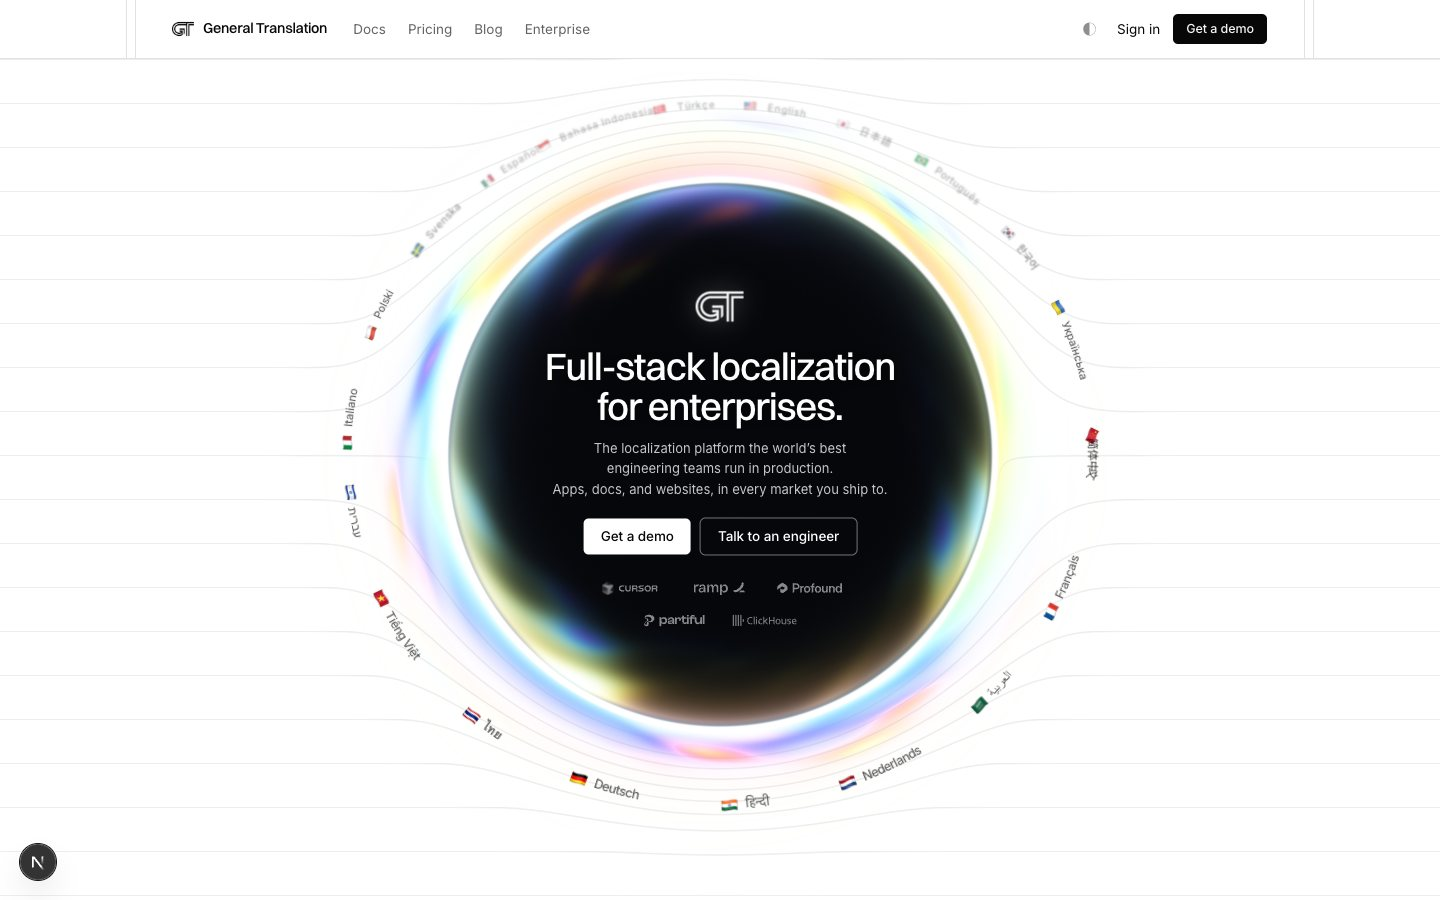
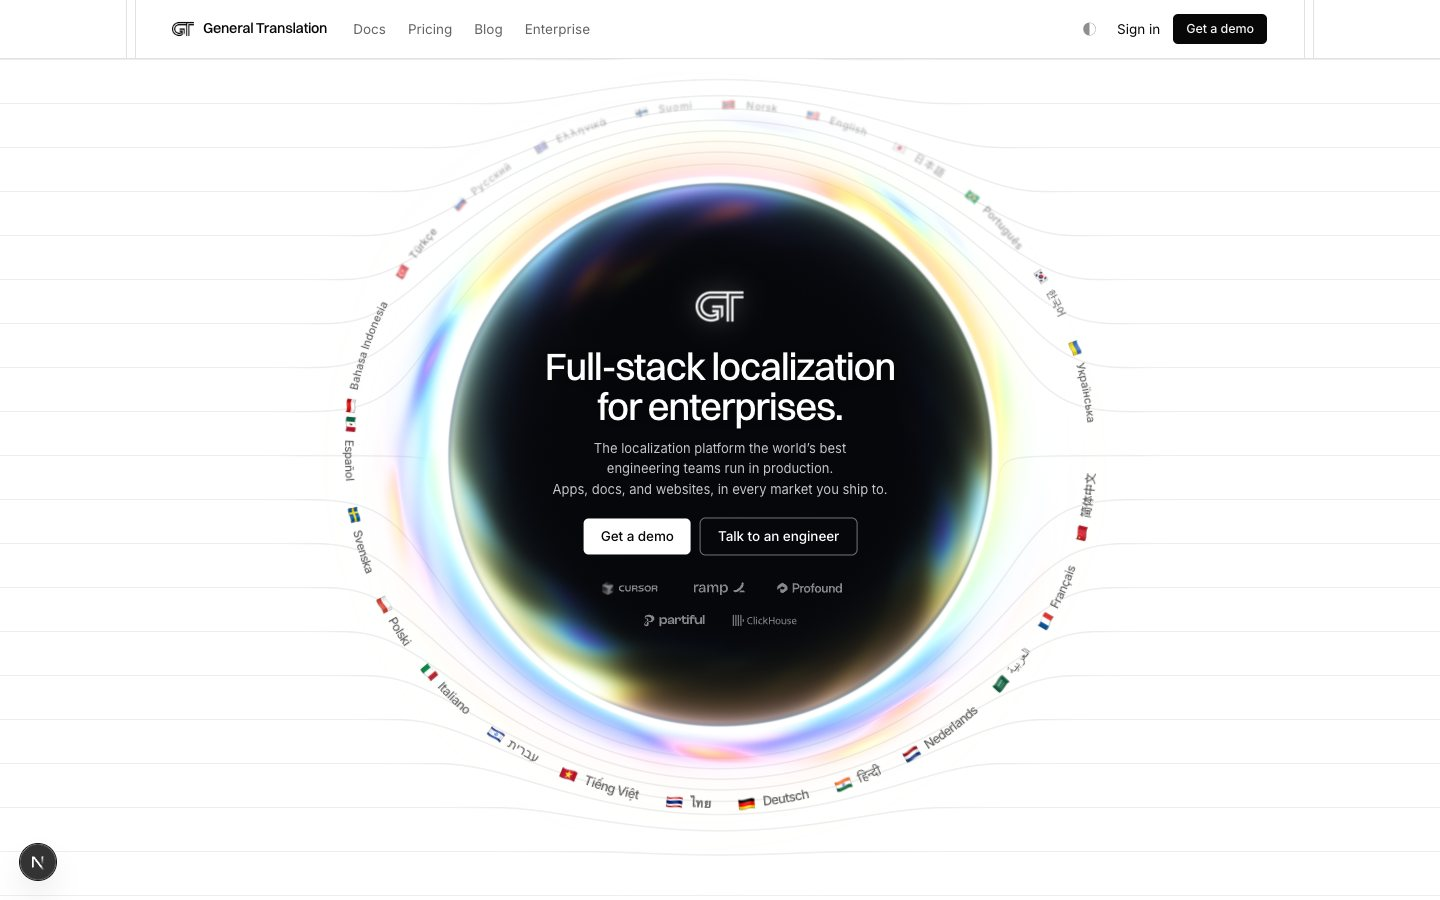
one breath around the ring, ten more languages, and an opengraph card
BELT PACKING: seats were uniform in angle, so short words left voids
and long words crowded. The belt now packs by ARC LENGTH — every word
takes exactly its own measured span plus one constant small gap, and
whatever arc is left over widens every gap equally. The Kepler speed
warp goes with it (any position-dependent speed stretches the gaps the
packing just made equal); depth swell, dim, and blur stay. Ten new
locales (Русский, Ελληνικά, Suomi, Norsk, Dansk, Čeština, Română,
Magyar, Filipino, Melayu) spend the reclaimed space, and the packing
recomputes per screen size: words that no longer fit at a smaller ring
sit out and return when it grows — 24 ride at 1440, 20 at 1024.

OPENGRAPH: /og.png (2400×1260) — the nameplate itself: Fraunces
prototype over its spec line, the outlined prototemplate ghost,
grotesk template with its spec, construction rules on ink — wired
through openGraph and twitter metadata on the index.

diff --git a/src/app/d/singularity/sections/Hero.tsx b/src/app/d/singularity/sections/Hero.tsx
@@ -42,6 +42,16 @@ const BELT: readonly { flag: string; name: string; whole?: boolean }[] = [
   { flag: '🇲🇽', name: 'Español' },
   { flag: '🇮🇩', name: 'Bahasa Indonesia' },
   { flag: '🇹🇷', name: 'Türkçe' },
+  { flag: '🇷🇺', name: 'Русский' },
+  { flag: '🇬🇷', name: 'Ελληνικά' },
+  { flag: '🇫🇮', name: 'Suomi' },
+  { flag: '🇳🇴', name: 'Norsk' },
+  { flag: '🇩🇰', name: 'Dansk' },
+  { flag: '🇨🇿', name: 'Čeština' },
+  { flag: '🇷🇴', name: 'Română' },
+  { flag: '🇭🇺', name: 'Magyar' },
+  { flag: '🇵🇭', name: 'Filipino' },
+  { flag: '🇲🇾', name: 'Melayu' },
 ];
 
 /** Flag-orbit radius as a multiple of the horizon radius (wide mode). */
@@ -50,9 +60,9 @@ const ORBIT_K = 1.36;
 const ORBIT_DUR = 130;
 /** Vertical squash of the flag orbit — a slightly inclined orbital plane. */
 const ORBIT_TILT = 0.94;
-/** Gravity pacing: chips whip through the near arc (1+K× speed) and glide
-    across the far side (1−K×) — dθ/dt = 1 − K·cos θ. */
-const KEPLER = 0.22;
+/** The constant arc gap between one word's end and the next word's flag,
+    px along the belt — the same small breath everywhere on the ring. */
+const BELT_GAP = 26;
 /** Seconds a glyph takes to roll over as it crosses the orbit's side. */
 const ROLL_S = 0.5;
 /** The flag's full sweep across the word at a crossing, seconds. */
@@ -179,6 +189,13 @@ export default function Hero() {
         glyphs: Glyph[];
         flag: Glyph | null;
         side: 0 | 1 | -1;
+        /** the word's seat on the ring, radians — set by packBelt() */
+        ang: number;
+        /** arc the word occupies (flag seat + letters), px */
+        span: number;
+        /** px from the word's anchor back to its leading (flag) edge */
+        lead: number;
+        active: boolean;
       };
 
       const words: Word[] = chips.map((root) => {
@@ -190,6 +207,10 @@ export default function Hero() {
           glyphs: letters.map((el) => ({ el, off: 0, blend: 0, thr: 0, dur: LETTER_S })),
           flag: flagEl ? { el: flagEl, off: 0, blend: 0, thr: 0, dur: ROLL_S } : null,
           side: -1,
+          ang: 0,
+          span: 0,
+          lead: 0,
+          active: true,
         };
       });
 
@@ -209,11 +230,42 @@ export default function Hero() {
              first letter and mirrors with them, so it is always to the left
              of the text in the text's own reading frame */
           if (word.flag) word.flag.off = -(total / 2 + FLAG_PAD + 8);
+          word.lead = total / 2 + FLAG_PAD + 16;
+          word.span = word.lead + total / 2;
+        }
+      };
+
+      /* Arc-length packing: every word takes exactly its own span plus ONE
+         constant small gap, measured along the ring — so the breath between
+         any two neighbours is identical. Words that no longer fit at this
+         orbit size sit out (responsive: they return when the ring grows),
+         and whatever arc is left over widens every gap equally. */
+      const packBelt = () => {
+        const C = TAU * orbitR;
+        let fit = 0;
+        let used = 0;
+        for (const word of words) {
+          if (used + word.span + BELT_GAP > C) break;
+          used += word.span + BELT_GAP;
+          fit += 1;
+        }
+        const gap = fit > 0 ? (C - (used - fit * BELT_GAP)) / fit : BELT_GAP;
+        let cum = 0;
+        for (const [i, word] of words.entries()) {
+          word.active = i < fit;
+          word.root.style.visibility = word.active ? 'visible' : 'hidden';
+          if (!word.active) continue;
+          word.ang = ((cum + word.lead) / C) * TAU;
+          cum += word.span + gap;
         }
       };
       buildOffsets();
+      packBelt();
       orbit.dataset.live = '1';
-      void document.fonts.ready.then(buildOffsets);
+      void document.fonts.ready.then(() => {
+        buildOffsets();
+        packBelt();
+      });
 
       const placeGlyph = (
         g: Glyph,
@@ -248,12 +300,12 @@ export default function Hero() {
         const dt = Math.min(Math.max(timeSec - lastT, 0), 0.06);
         lastT = timeSec;
         const phase = (timeSec / ORBIT_DUR) * TAU;
-        const n = words.length || 1;
         for (let i = 0; i < words.length; i++) {
           const word = words[i];
-          if (!word) continue;
-          const a0 = phase + (i / n) * TAU;
-          const a = a0 - KEPLER * Math.sin(a0);
+          if (!word || !word.active) continue;
+          /* uniform revolution over arc-packed seats: any speed warp would
+             stretch and squeeze the gaps the packing just made equal */
+          const a = phase + word.ang;
           const cos = Math.cos(a);
           /* one coordinated ripple per word: when the word's CENTER crosses
              the orbit's side, every glyph rolls over in sequence from the
@@ -309,6 +361,9 @@ export default function Hero() {
           ? Math.max(Math.min(h * 0.47, h - r - 148), r + 96)
           : Math.max(Math.min(h * 0.46, h - r - 172), r + 148);
         orbitR = wide ? r * ORBIT_K : Math.min(r + 36, w / 2 - 20);
+        /* the ring changed size — repack the belt for the new circumference
+           (words that no longer fit sit out; gaps stay equal) */
+        packBelt();
 
         hero.style.setProperty('--eh-cx', `${cx.toFixed(1)}px`);
         hero.style.setProperty('--eh-cy', `${cy.toFixed(1)}px`);

diff --git a/src/app/page.tsx b/src/app/page.tsx
@@ -20,6 +20,20 @@ export const metadata = {
   description:
     'Prototype × template — the working index of General Translation redesign directions.',
   icons: { icon: [{ url: '/pt-mark.svg', type: 'image/svg+xml' }] },
+  openGraph: {
+    title: 'Prototemplate',
+    description:
+      'Prototype × template — the working index of General Translation redesign directions.',
+    type: 'website',
+    images: [{ url: '/og.png', width: 2400, height: 1260, alt: 'prototype × template' }],
+  },
+  twitter: {
+    card: 'summary_large_image',
+    title: 'Prototemplate',
+    description:
+      'Prototype × template — the working index of General Translation redesign directions.',
+    images: ['/og.png'],
+  },
 };
 
 /** The presenter's actual running order. */
